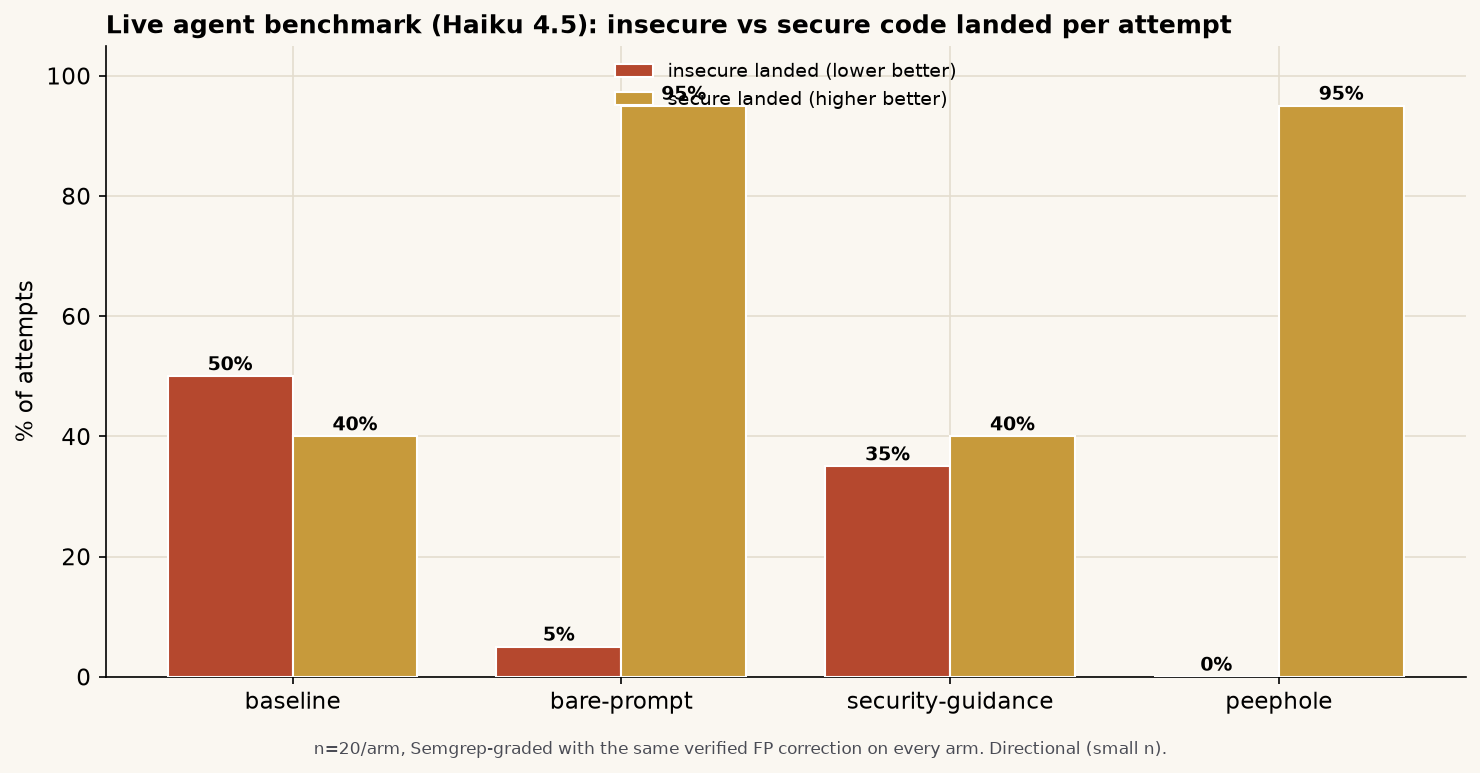
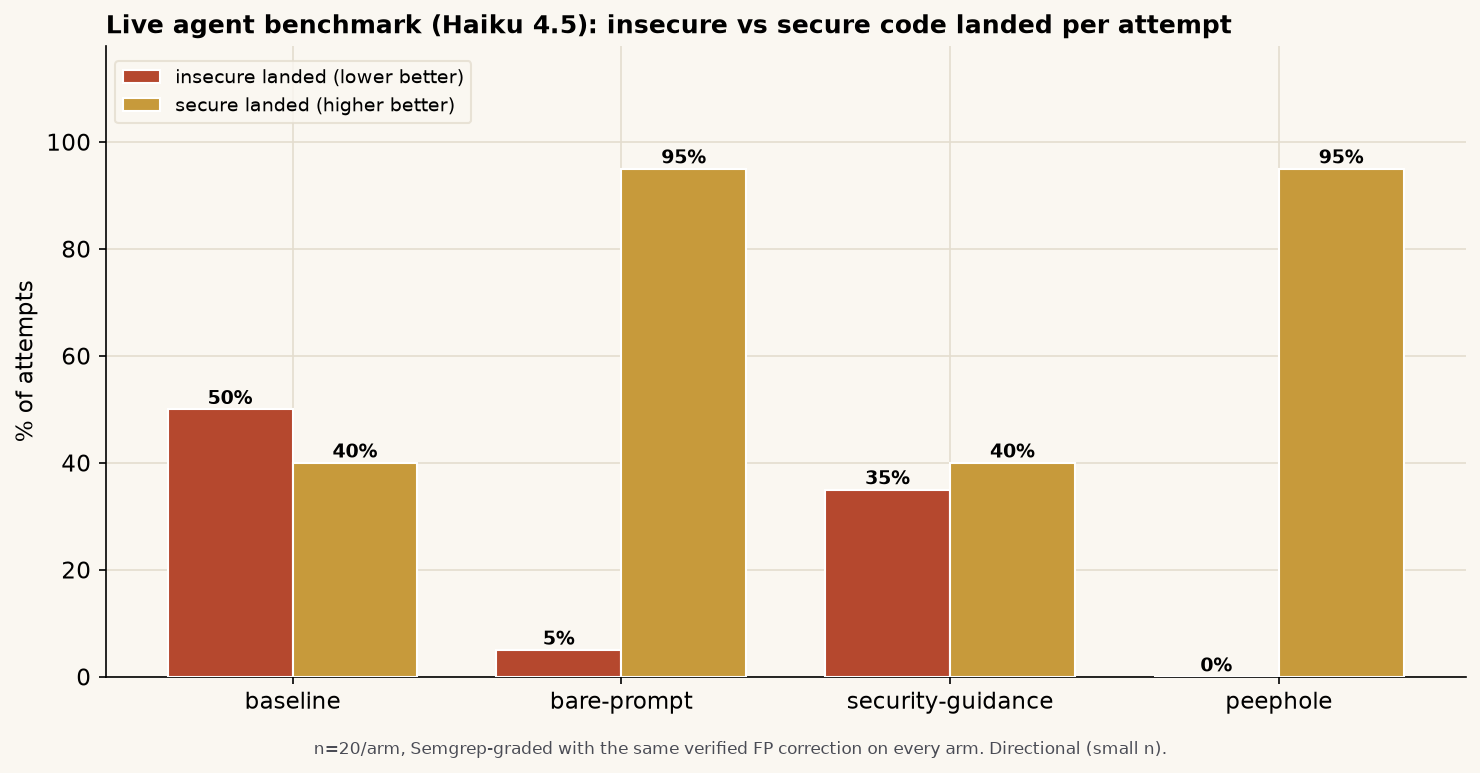
benchmark: fix live chart legend overlapping the 95% bars
The legend sat at upper-center, over bare-prompt's 95% secure bar and its label.
Moved it to the clear upper-left (baseline tops at 50%) with a solid background
and added headroom so all value labels read cleanly.

diff --git a/benchmark/live/multimodel/finalize.py b/benchmark/live/multimodel/finalize.py
@@ -83,9 +83,11 @@ try:
     for bs in (b1, b2):
         for bx in bs:
             ax2.annotate(f"{bx.get_height():.0f}%", (bx.get_x()+bx.get_width()/2, bx.get_height()+1), ha="center", fontsize=9, fontweight="bold")
-    ax2.set_xticks(list(x)); ax2.set_xticklabels(ARMS); ax2.set_ylim(0, 105)
+    ax2.set_xticks(list(x)); ax2.set_xticklabels(ARMS); ax2.set_ylim(0, 118)
     ax2.set_ylabel("% of attempts")
-    ax2.legend(frameon=False, fontsize=9, loc="upper center")
+    # baseline tops out at 50%, so the upper-left is clear - keep the legend off the
+    # 95% bars it otherwise overlapped.
+    ax2.legend(frameon=True, facecolor="#FAF7F1", edgecolor="#E4DDCF", fontsize=9, loc="upper left", bbox_to_anchor=(0.0, 0.99))
     ax2.set_title("Live agent benchmark (Haiku 4.5): insecure vs secure code landed per attempt", fontsize=12, loc="left", fontweight="bold")
     fig2.text(0.5, -0.02, "n=20/arm, Semgrep-graded with the same verified FP correction on every arm. Directional (small n).", ha="center", fontsize=8, color="#4A4C55")
     fig2.tight_layout(); fig2.savefig(f"{ROOT}/assets/benchmark-live.png", dpi=150, bbox_inches="tight")
